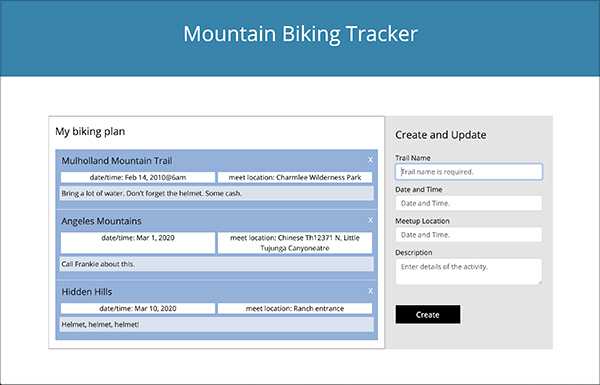
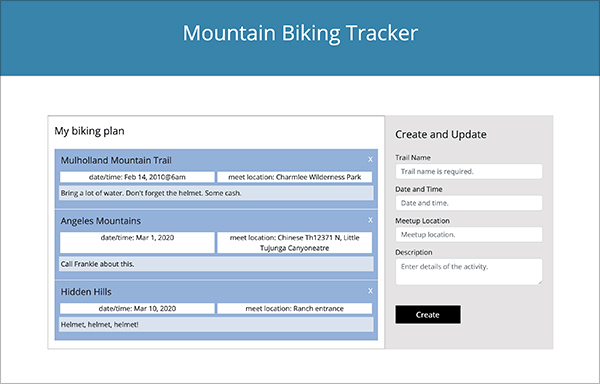
placeholder text/readme

diff --git a/public/index.html b/public/index.html
@@ -41,7 +41,7 @@
             id="timeDate"
             class="form-control"
             name="trail"
-            placeholder="Date and Time."
+            placeholder="Date and time."
             autofocus
           />
           <label>Meetup Location</label>
@@ -49,7 +49,7 @@
             id="meetUp"
             class="form-control"
             name="trail"
-            placeholder="Date and Time."
+            placeholder="Meetup location."
             autofocus
           />
 
